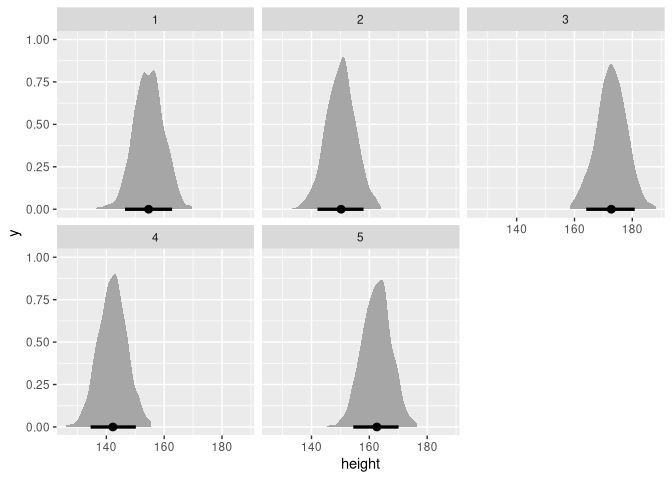
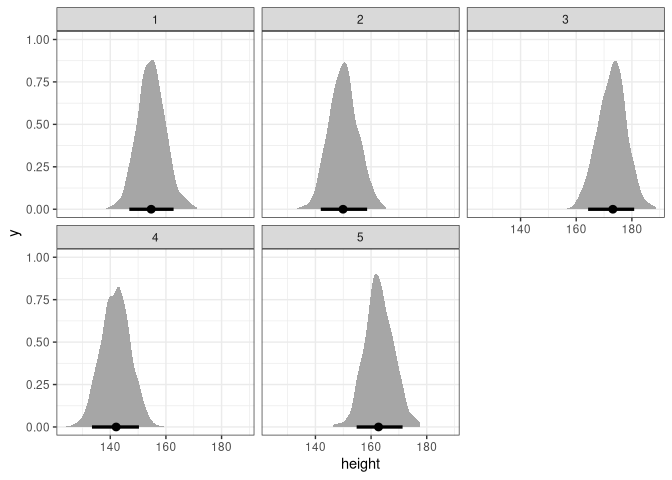
render

diff --git a/homework/Week-02/Week-02_RobitailleAlec.md b/homework/Week-02/Week-02_RobitailleAlec.md
@@ -35,6 +35,8 @@ library(data.table)
 library(ggplot2)
 library(tidybayes)
 
+theme_set(theme_bw())
+
 data(Howell1)
 
 d <- Howell1[Howell1$age >= 18,]
@@ -54,9 +56,9 @@ precis(m)
 ```
 
     ##              mean         sd        5.5%       94.5%
-    ## a     154.6013661 0.27030748 154.1693625 155.0333696
-    ## b       0.9034412 0.04189135   0.8364907   0.9703917
-    ## sigma   5.0718774 0.19115441   4.7663758   5.3773791
+    ## a     154.6010167 0.27027808 154.1690601 155.0329732
+    ## b       0.9034469 0.04188681   0.8365037   0.9703901
+    ## sigma   5.0713264 0.19110249   4.7659077   5.3767450
 
 Simulate:
 
